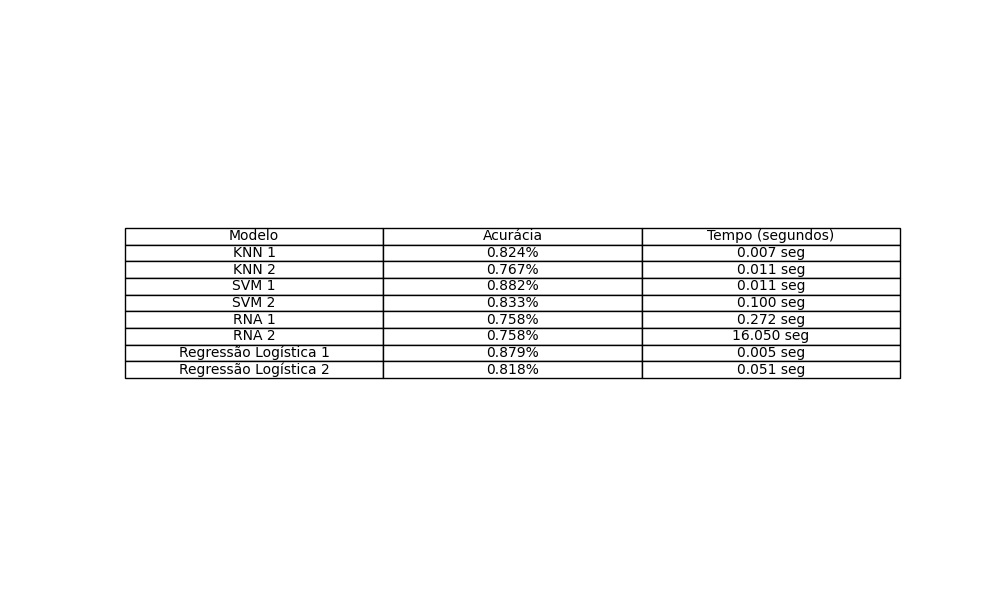
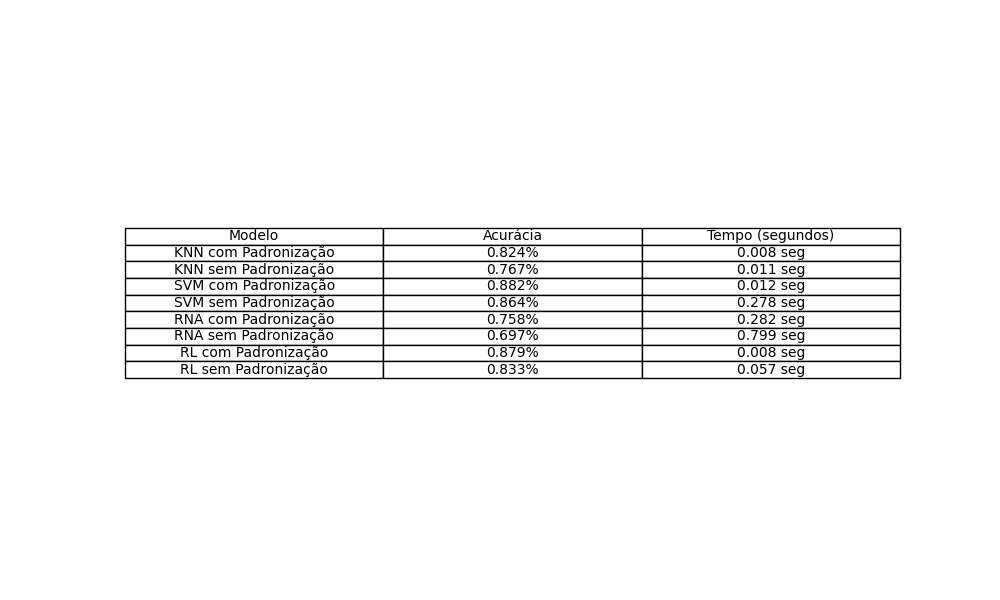
refactor nome dos graficos

diff --git a/main.py b/main.py
@@ -25,7 +25,7 @@ X = data.drop('Heart Disease', axis=1)
 y = data['Heart Disease']
 
 # Grafico de outliers
-graficos.append(plt.figure(figsize=(10, 6)))
+graficos.append(plt.figure(figsize=(10, 14)))
 sns.boxplot(data=X)
 plt.title('Gráfico de Outliers Dataset')
 plt.xticks(rotation=90)
@@ -107,10 +107,10 @@ confusion = confusion_matrix(y_test, y_pred)
 sns.heatmap(confusion, annot=True, fmt='d', cmap='Blues')
 plt.xlabel('Valores Preditos')
 plt.ylabel('Valores Reais')
-plt.title('Matriz de Confusão do KNN 1')
+plt.title('Matriz de Confusão do KNN com Padronização')
 plt.show()
-nomeGraficos.append("Matriz de Confusão do KNN 1")
-graficoModelos.append("KNN 1")
+nomeGraficos.append("Matriz de Confusão do KNN com Padronização")
+graficoModelos.append("KNN com Padronização")
 tempos.append(elapsed_time)
 accuracyArray.append(accuracy)
 # =================================================================================================
@@ -131,10 +131,10 @@ graficos.append(plt.figure(figsize=(6, 4)))
 sns.heatmap(confusion, annot=True, fmt='d', cmap='Blues')
 plt.xlabel('Valores Preditos')
 plt.ylabel('Valores Reais')
-plt.title('Matriz de Confusão do KNN 2')
+plt.title('Matriz de Confusão do KNN sem Padronização')
 plt.show()
-nomeGraficos.append("Matriz de Confusão do KNN 2")
-graficoModelos.append("KNN 2")
+nomeGraficos.append("Matriz de Confusão do KNN sem Padronização")
+graficoModelos.append("KNN sem Padronização")
 tempos.append(elapsed_time)
 accuracyArray.append(accuracy)
 # =================================================================================================
@@ -160,10 +160,10 @@ graficos.append(plt.figure(figsize=(6, 4)))
 sns.heatmap(confusion, annot=True, fmt='d', cmap='Blues')
 plt.xlabel('Valores Preditos')
 plt.ylabel('Valores Reais')
-plt.title('Matriz de Confusão do SVM 1')
+plt.title('Matriz de Confusão do SVM com Padronização')
 plt.show()
-nomeGraficos.append("Matriz de Confusão do SVM 1")
-graficoModelos.append("SVM 1")
+nomeGraficos.append("Matriz de Confusão do SVM com Padronização")
+graficoModelos.append("SVM com Padronização")
 tempos.append(elapsed_time)
 accuracyArray.append(accuracy)
 # =================================================================================================
@@ -187,10 +187,10 @@ graficos.append(plt.figure(figsize=(6, 4)))
 sns.heatmap(confusion, annot=True, fmt='d', cmap='Blues')
 plt.xlabel('Valores Preditos')
 plt.ylabel('Valores Reais')
-plt.title('Matriz de Confusão do SVM 2')
+plt.title('Matriz de Confusão do SVM sem Padronização')
 plt.show()
-nomeGraficos.append("Matriz de Confusão do SVM 2")
-graficoModelos.append("SVM 2")
+nomeGraficos.append("Matriz de Confusão do SVM sem Padronização")
+graficoModelos.append("SVM sem Padronização")
 tempos.append(elapsed_time)
 accuracyArray.append(accuracy)
 # =================================================================================================
@@ -217,10 +217,10 @@ graficos.append(plt.figure(figsize=(6, 4)))
 sns.heatmap(confusion, annot=True, fmt='d', cmap='Blues')
 plt.xlabel('Valores Preditos')
 plt.ylabel('Valores Reais')
-plt.title('Matriz de Confusão do RNA 1')
+plt.title('Matriz de Confusão do RNA com Padronização')
 plt.show()
-nomeGraficos.append("Matriz de Confusão do RNA 1")
-graficoModelos.append("RNA 1")
+nomeGraficos.append("Matriz de Confusão do RNA com Padronização")
+graficoModelos.append("RNA com Padronização")
 tempos.append(elapsed_time)
 accuracyArray.append(accuracy)
 # =================================================================================================
@@ -245,10 +245,10 @@ graficos.append(plt.figure(figsize=(6, 4)))
 sns.heatmap(confusion, annot=True, fmt='d', cmap='Blues')
 plt.xlabel('Valores Preditos')
 plt.ylabel('Valores Reais')
-plt.title('Matriz de Confusão do RNA 2')
+plt.title('Matriz de Confusão do RNA sem Padronização')
 plt.show()
-nomeGraficos.append("Matriz de Confusão do RNA 2")
-graficoModelos.append("RNA 2")
+nomeGraficos.append("Matriz de Confusão do RNA sem Padronização")
+graficoModelos.append("RNA sem Padronização")
 tempos.append(elapsed_time)
 accuracyArray.append(accuracy)
 # =================================================================================================
@@ -276,10 +276,10 @@ graficos.append(plt.figure(figsize=(6, 4)))
 sns.heatmap(confusion, annot=True, fmt='d', cmap='Blues')
 plt.xlabel('Valores Preditos')
 plt.ylabel('Valores Reais')
-plt.title('Matriz de Confusão da Regressão Logística 1')
+plt.title('Matriz de Confusão da Regressão Logística com Padronização')
 plt.show()
-nomeGraficos.append("Matriz de Confusão do Regressão Logística 1")
-graficoModelos.append("Regressão Logística 1")
+nomeGraficos.append("Matriz de Confusão do Regressão Logística com Padronização")
+graficoModelos.append("RL com Padronização")
 tempos.append(elapsed_time)
 accuracyArray.append(accuracy)
 # =================================================================================================
@@ -304,10 +304,10 @@ graficos.append(plt.figure(figsize=(6, 4)))
 sns.heatmap(confusion, annot=True, fmt='d', cmap='Blues')
 plt.xlabel('Valores Preditos')
 plt.ylabel('Valores Reais')
-plt.title('Matriz de Confusão da Regressão Logística 1')
+plt.title('Matriz de Confusão da Regressão Logística sem Padronização')
 plt.show()
-nomeGraficos.append("Matriz de Confusão do Regressão Logística 2")
-graficoModelos.append("Regressão Logística 2")
+nomeGraficos.append("Matriz de Confusão do Regressão Logística sem Padronização")
+graficoModelos.append("RL sem Padronização")
 tempos.append(elapsed_time)
 accuracyArray.append(accuracy)
 # =================================================================================================
@@ -331,7 +331,7 @@ nomeGraficos.append("Gráfico de Tempo de Execução dos Modelos")
 # =================================================================================================
 
 # Grafico de acuracia dos modelos
-graficos.append(plt.figure(figsize=(10, 6)))
+graficos.append(plt.figure(figsize=(15, 8)))
 bars = plt.barh(graficoModelos, accuracyArray, color='lightblue')
 plt.xlabel('Acurácia (%)')
 plt.title('Acurácia dos Modelos')
